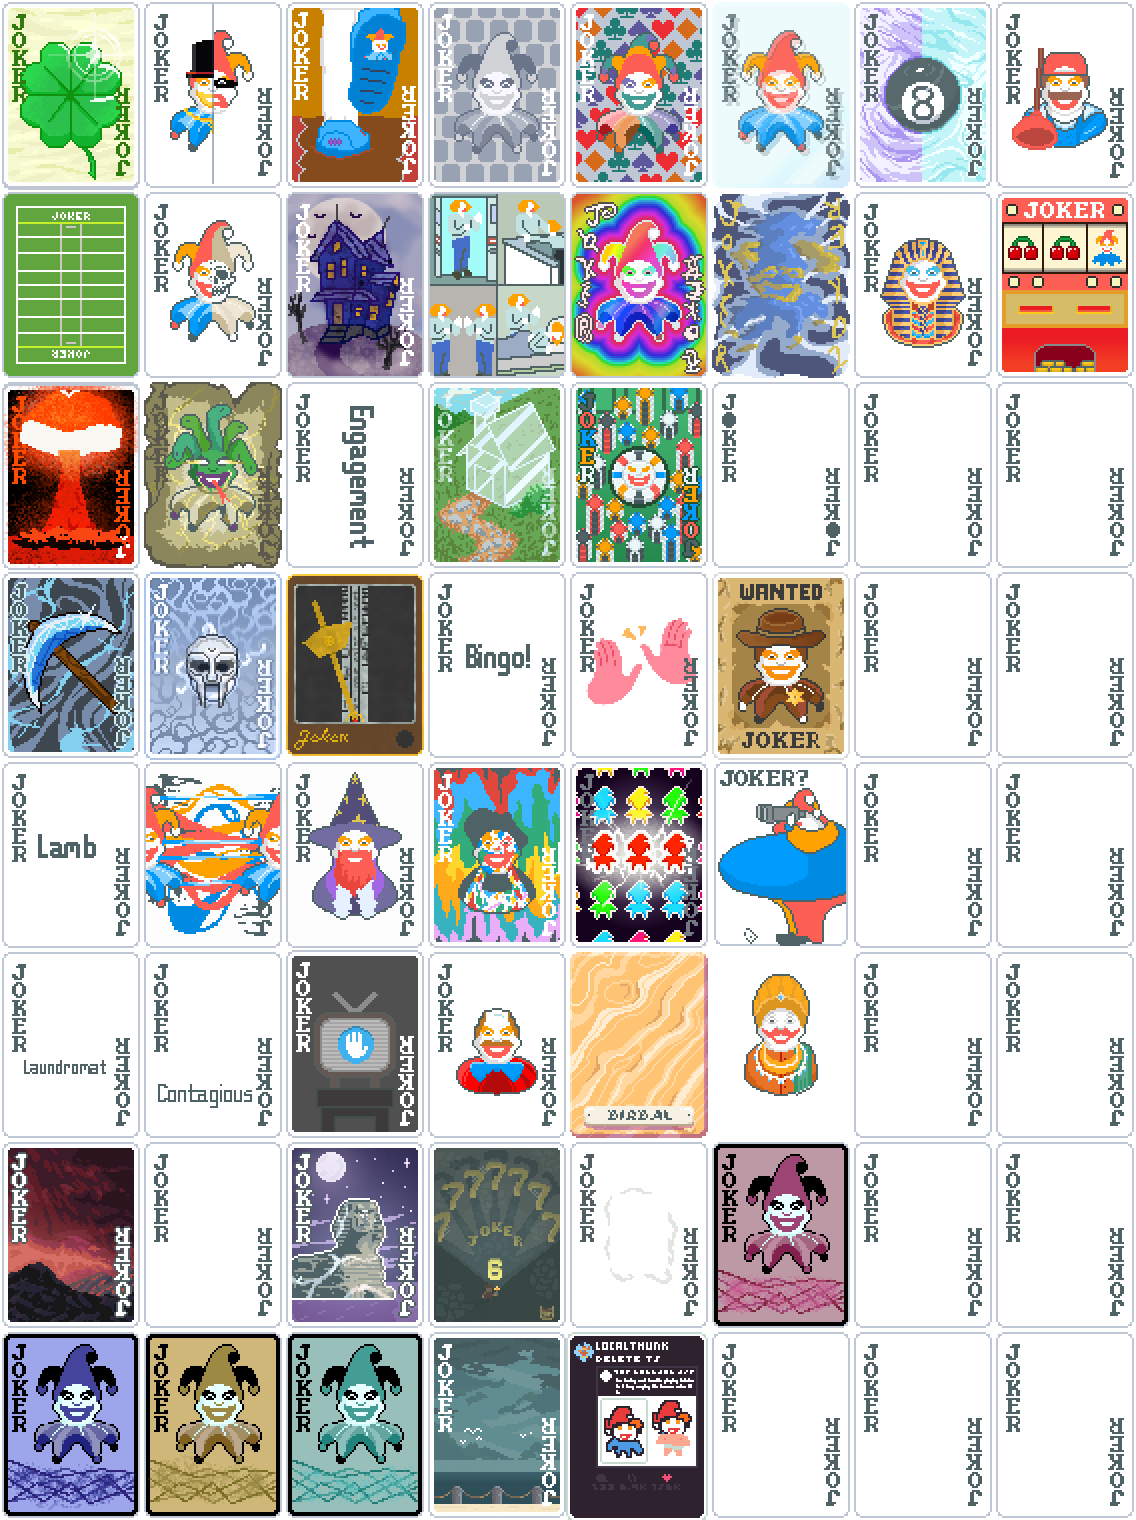
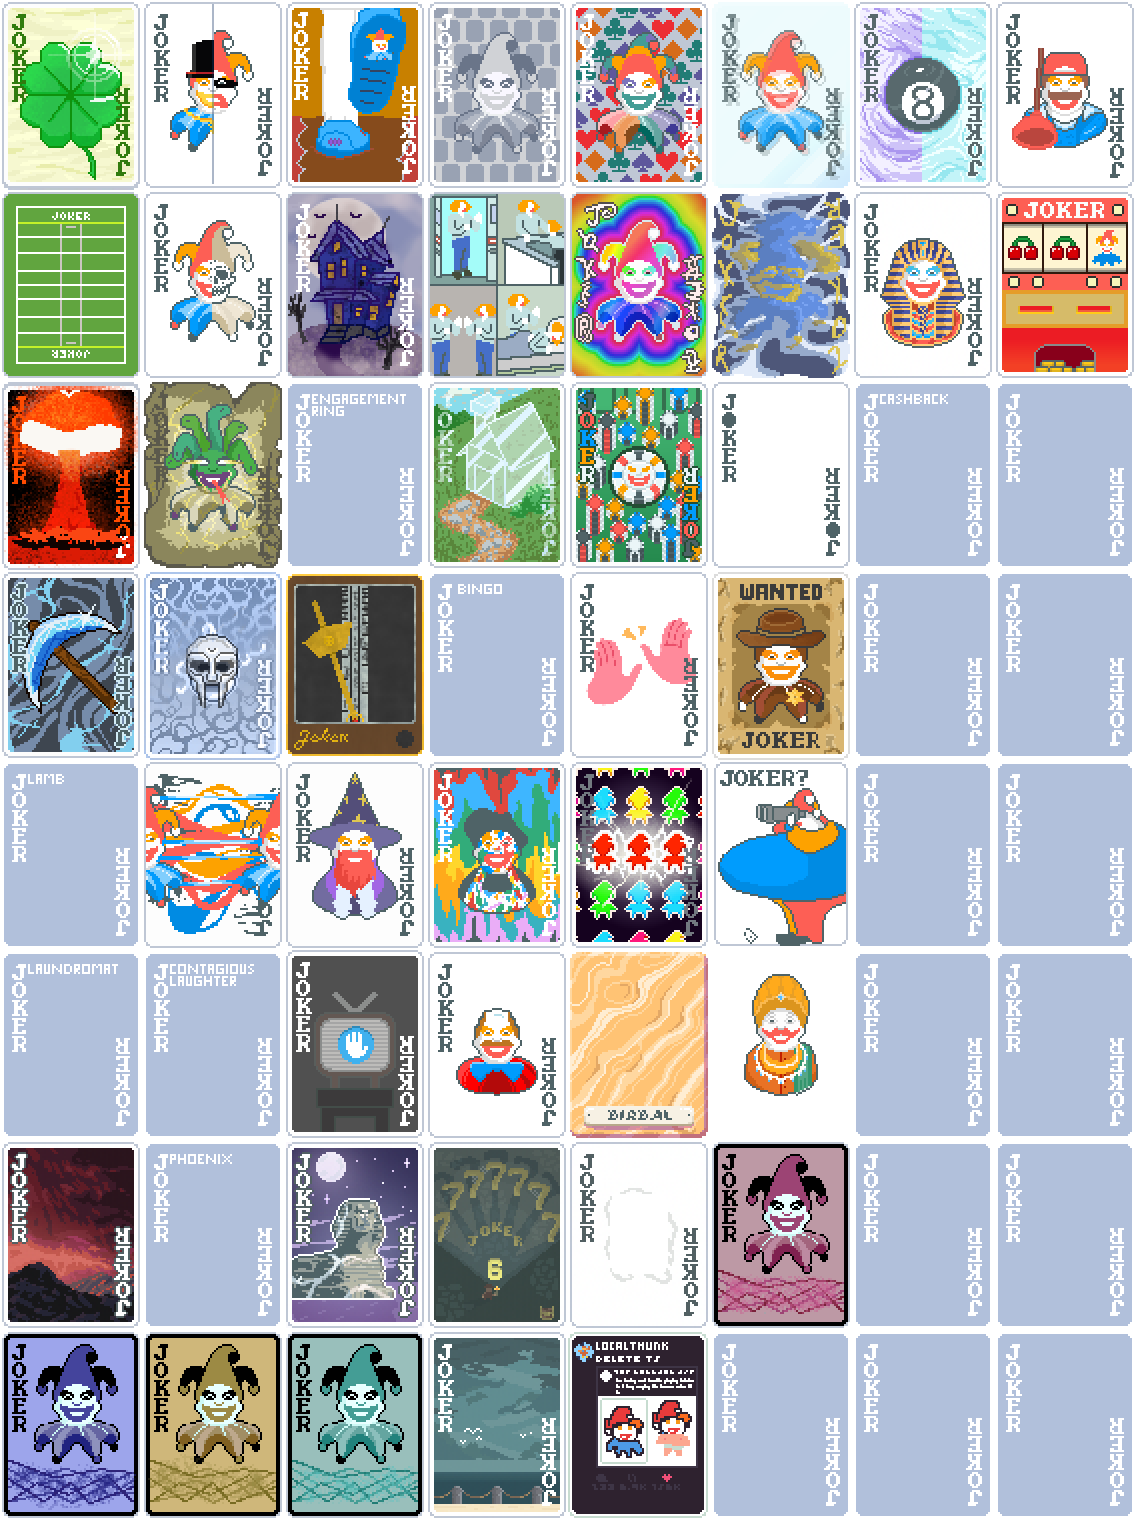
Many, Many Fixes
- Added Voucher Atlas
- Removed Card Counting Voucher Temporarily due to Bugs
- Update Joker Textures
- Update Artless Joker Textures
- Add vouchers.png
- Some Util Python Scripts
- Update Cashback Sprite Pos
- Fix Wrong credit on Plumber
- Add Textures to Trolley Problem

Changed region(s): [[0.493, 0.2474, 1.0, 1.0], [0.0, 0.4947, 0.2465, 0.8967], [0.2465, 0.2474, 0.5238, 0.5257]]

diff --git a/other/generate_desc copy.py b/other/generate_desc copy.py
@@ -4,7 +4,8 @@ import re
 files = os.listdir('src/jokers')
 nameregex = r'name = \'(.+?)\''
 creditregex = r'credit_badge\(\'(.+?)\''
-rarityregex = r'rarity = (\d)'
+
+users = set()
 
 for file in files:
     file = 'src/jokers/' + file
@@ -12,8 +13,9 @@ for file in files:
 
     name = re.findall(nameregex, filetext)[0]
     credit = re.findall(creditregex, filetext)[0]
-    rarity = re.search(rarityregex, filetext)
-    rarity = rarity.group(1).strip()
     
-    if rarity == '4':
-        print(f'- {name} by [{credit}](https://reddit.com/u/{credit})')
+
+    users.add(f'    - [u/{credit}](https://reddit.com/u/{credit})')
+
+for user in users:
+    print(user)

diff --git a/other/generate_desc copy 2.py b/other/generate_desc copy 2.py
@@ -1,0 +1,15 @@
+import os
+import re
+
+files = os.listdir('src/jokers')
+nameregex = r'name = \'(.+?)\''
+
+planning = open('planning.md').read().lower()
+
+for file in files:
+    file = 'src/jokers/' + file
+    filetext = open(file).read()
+
+    name = re.findall(nameregex, filetext)[0].lower()
+    if not name in planning:
+        print(name)

diff --git a/README.md b/README.md
@@ -9,45 +9,86 @@ Feel Free to open an Issue when you find a Problem!
 
 ## Jokers
 ### Common
-- Feelin' Lucky by [u/TSAMarioYTReddit](https://reddit.com/u/TSAMarioYTReddit): 1 in 3 Chance to retrigger Lucky Club Cards thrice
-- Slothful Joker by [u/NeoShard1](https://reddit.com/u/NeoShard1): Scored Stone Cards give +5 Mult
-- Medusa by [u/PerfectAstronaut5998](https://reddit.com/u/PerfectAstronaut5998): All scored Face Cards turn into stone cards
-- [MISSING TEXTURE] Engagement Ring by [u/LittlePetiteGirl](https://reddit.com/u/LittlePetiteGirl): Retriggers all scored Diamonds
+- Abstinent Joker by [submiss1vefemb0y](https://reddit.com/u/submiss1vefemb0y)
+- Album Cover by [Omicra98](https://reddit.com/u/Omicra98)
+- CashBack by [WarmTranslator6633](https://reddit.com/u/WarmTranslator6633)
+- Charitable Joker by [submiss1vefemb0y](https://reddit.com/u/submiss1vefemb0y)
+- Chaste Joker by [submiss1vefemb0y](https://reddit.com/u/submiss1vefemb0y)
+- Engagement Ring by [LittlePetiteGirl](https://reddit.com/u/LittlePetiteGirl)
+- Feelin' by [TSAMarioYTReddit](https://reddit.com/u/TSAMarioYTReddit)
+- Hollow Point by [Omicra98](https://reddit.com/u/Omicra98)
+- Kind Joker by [submiss1vefemb0y](https://reddit.com/u/submiss1vefemb0y)
+- Marvin by [BrilliantClerk](https://reddit.com/u/BrilliantClerk)
+- Medusa by [PerfectAstronaut5998](https://reddit.com/u/PerfectAstronaut5998)
+- Phoenix by [WarmTranslator6633](https://reddit.com/u/WarmTranslator6633)
+- Plumber by [Kid4U_Reddit](https://reddit.com/u/Kid4U_Reddit)
+- Slothful Joker by [NeoShard1](https://reddit.com/u/NeoShard1)
 ### Uncommon
-- Chocolate Treadmill by [u/jah2277](https://reddit.com/u/jah2277): Joker gains +1 Hand and loses X0.5 Chips if played hand contains a Straight. Elsewise gain X2 Chips
-- Touchdown by [u/WarmTranslator6633](https://reddit.com/u/WarmTranslator6633): Gains +7 mult once playing cards scores exeed 100
-- Jimbo's Loss by [u/aTOMic_Games](https://reddit.com/u/aTOMic_Games): Gains X0.2 mult when 3 or more face cards are discarded
-- [MISSING TEXTURE] Trippy Joker by [u/WarmTranslator6633](https://reddit.com/u/WarmTranslator6633): Gains X0.2 mult if played hand is High Card, else lose X0.2 mult 
-- Sinister Joker by [u/knockoutn336](https://reddit.com/u/knockoutn336): Gives X0.5 Mult for every Joker to the right
-- Glass House by [u/WarmTranslator6633](https://reddit.com/u/WarmTranslator6633): Enhances last played card into a Glass Card if played hand contains a Full House
-- All In by [u/Kyuuseishu_](https://reddit.com/u/Kyuuseishu_): Gives X5 Mult, lose all money when Blind is selected.
-- Diamond Pickaxe by [u/TSAMarioYTReddit](https://reddit.com/u/TSAMarioYTReddit): 1 in 16 chance to give $15 when discarding any enhanced card.
-- Bingo! by [u/WarmTranslator6633](https://reddit.com/u/WarmTranslator6633): Earn $13 when you play a card of every rank
-- Wild West by [u/GreedyHase](https://reddit.com/u/GreedyHase): Gives X3 Mult if played hand contains 3 or more Wild Cards
+- All In by [Kyuuseishu_](https://reddit.com/u/Kyuuseishu_)
+- Artist by [TSAMarioYTReddit](https://reddit.com/u/TSAMarioYTReddit)
+- Bingo! by [WarmTranslator6633](https://reddit.com/u/WarmTranslator6633)
+- Chocolate Treadmill by [jah2277](https://reddit.com/u/jah2277)
+- Contagious Laughter by [Unlikely_Movie_9073](https://reddit.com/u/Unlikely_Movie_9073)
+- Crimson Dawn by [Omicra98](https://reddit.com/u/Omicra98)
+- Diamond Pickaxe by [TSAMarioYTReddit](https://reddit.com/u/TSAMarioYTReddit)
+- Double Glazing by [NeoShard1](https://reddit.com/u/NeoShard1)
+- Glass House by [WarmTranslator6633](https://reddit.com/u/WarmTranslator6633)
+- Jimbo\ by [aTOMic_Games](https://reddit.com/u/aTOMic_Games)
+- Laundromat by [PokeAreddit](https://reddit.com/u/PokeAreddit)
+- Match 3 by [TSAMarioYTReddit](https://reddit.com/u/TSAMarioYTReddit)
+- Metronome by [Jkjsupremo](https://reddit.com/u/Jkjsupremo)
+- Pier by [Omicra98](https://reddit.com/u/Omicra98)
+- Rainbow Joker by [NeoShard1](https://reddit.com/u/NeoShard1)
+- Sinister Joker by [knockoutn336](https://reddit.com/u/knockoutn336)
+- Sphinx of Black Quartz by [Omicra98](https://reddit.com/u/Omicra98)
+- Superstition by [Omicra98](https://reddit.com/u/Omicra98)
+- Touchdown by [WarmTranslator6633](https://reddit.com/u/WarmTranslator6633)
+- Where is the Joker? by [babisme](https://reddit.com/u/babisme)
+- Wild West by [GreedyHase](https://reddit.com/u/GreedyHase)
 ### Rare
-- Kleptomaniac by [u/WarmTranslator6633](https://reddit.com/u/WarmTranslator6633): Refund all Items bought in the Shop. 1 in 10 chance to deduct all money owed
-- Rainbow Joker by [u/NeoShard1](https://reddit.com/u/NeoShard1): Gives X1 Mult pre unique suit in played Hand
-- [MISSING TEXTURE] Haunted House by [u/Ulik](https://reddit.com/u/Ulik): 1 in 4 chance to create a Spectral Card when the played hand contains a Full House
-- Enigma by [u/TSAMarioYTReddit](https://reddit.com/u/TSAMarioYTReddit): 1 in 5 chance to create a Negative Spectral Card when using a Tarrot or Planet card
-- M.A.D. by [u/TSAMarioYTReddit](https://reddit.com/u/TSAMarioYTReddit): Sell this joker to increase ante by +1, beat this blind and set money to 0
-- Blank Joker by [u/WarmTranslator6633](https://reddit.com/u/WarmTranslator6633): Sell this card after beating 2 Boss Blinds to create an extra Joker Slot
-- Hi Five by [u/Thomassaurus](https://reddit.com/u/Thomassaurus): Gives $2 for every 5 in your deck when sold
-- Lamb by [u/Beasstvg](https://reddit.com/u/Beasstvg): After playing every base poker hand, sell this card to create a Legendary Joker
+- Ad Break by [Kid4U_Reddit](https://reddit.com/u/Kid4U_Reddit)
+- Blank Joker by [WarmTranslator6633](https://reddit.com/u/WarmTranslator6633)
+- Enigma by [TSAMarioYTReddit](https://reddit.com/u/TSAMarioYTReddit)
+- Entangled Joker by [TSAMarioYTReddit](https://reddit.com/u/TSAMarioYTReddit)
+- Haunted House by [Ulik](https://reddit.com/u/Ulik)
+- Hi Five by [Thomassaurus](https://reddit.com/u/Thomassaurus)
+- Kleptomaniac by [WarmTranslator6633](https://reddit.com/u/WarmTranslator6633)
+- Lamb by [Beasstvg](https://reddit.com/u/Beasstvg)
+- Legally Distinct by [Princemerkimer](https://reddit.com/u/Princemerkimer)
+- M.A.D. by [TSAMarioYTReddit](https://reddit.com/u/TSAMarioYTReddit)
+- Pharaoh by [Omicra98](https://reddit.com/u/Omicra98)
+- Trippy Joker by [WarmTranslator6633](https://reddit.com/u/WarmTranslator6633)
+- Wizard by [TSAMarioYTReddit](https://reddit.com/u/TSAMarioYTReddit)
+
+### Legendary
+- Birbal by [TSAMarioYTReddit](https://reddit.com/u/TSAMarioYTReddit)
 
 ## Credits
 - Mod Author: [u/ItsGraphax](https://reddit.com/u/ItsGraphax) - [ItsGraphax](github.com/ItsGraphax)
 - Co Author: [u/Natural_Builder_3170](https://reddit.com/u/Natural_Builder_3170) - [mindoftony](https://github.com/Git-i)
+- Artist: [u/TSAMarioYTReddit](https://reddit.com/u/TSAMarioYTReddit)
 - Special Thanks
-    - [u/TSAMarioYTReddit](https://reddit.com/u/TSAMarioYTReddit) - Thank You for the Excessive Amount of Jokers you gave me and the awesome art you made.
     - [u/VALERock](https://reddit.com/u/VALERock) - Thank you for the support <3
 - Jokers:
-    - [u/TSAMarioYTReddit](https://reddit.com/u/TSAMarioYTReddit)
-    - [u/WarmTranslator6633](https://reddit.com/u/WarmTranslator6633)
-    - [u/NeoShard1](https://reddit.com/u/NeoShard1)
-    - [u/PerfectAstronaut5998](https://reddit.com/u/PerfectAstronaut5998)
-    - [u/jah2277](https://reddit.com/u/jah2277)
-    - [u/LittlePetiteGirl](https://reddit.com/u/LittlePetiteGirl)
     - [u/aTOMic_Games](https://reddit.com/u/aTOMic_Games)
-    - [u/knockoutn336](https://reddit.com/u/knockoutn336)
-    - [u/Kyuuseishu_](https://reddit.com/u/Kyuuseishu_)
     - [u/Ulik](https://reddit.com/u/Ulik)
+    - [u/GreedyHase](https://reddit.com/u/GreedyHase)
+    - [u/Jkjsupremo](https://reddit.com/u/Jkjsupremo)
+    - [u/PerfectAstronaut5998](https://reddit.com/u/PerfectAstronaut5998)
+    - [u/NeoShard1](https://reddit.com/u/NeoShard1)
+    - [u/Kid4U_Reddit](https://reddit.com/u/Kid4U_Reddit)
+    - [u/BrilliantClerk](https://reddit.com/u/BrilliantClerk)
+    - [u/LittlePetiteGirl](https://reddit.com/u/LittlePetiteGirl)
+    - [u/WarmTranslator6633](https://reddit.com/u/WarmTranslator6633)
+    - [u/Princemerkimer](https://reddit.com/u/Princemerkimer)
+    - [u/Beasstvg](https://reddit.com/u/Beasstvg)
+    - [u/babisme](https://reddit.com/u/babisme)
+    - [u/Omicra98](https://reddit.com/u/Omicra98)
+    - [u/Kyuuseishu_](https://reddit.com/u/Kyuuseishu_)
+    - [u/jah2277](https://reddit.com/u/jah2277)
+    - [u/Unlikely_Movie_9073](https://reddit.com/u/Unlikely_Movie_9073)
+    - [u/TSAMarioYTReddit](https://reddit.com/u/TSAMarioYTReddit)
+    - [u/submiss1vefemb0y](https://reddit.com/u/submiss1vefemb0y)
+    - [u/knockoutn336](https://reddit.com/u/knockoutn336)
+    - [u/Thomassaurus](https://reddit.com/u/Thomassaurus)
+    - [u/PokeAreddit](https://reddit.com/u/PokeAreddit)

diff --git a/planning.md b/planning.md
@@ -40,6 +40,12 @@
 - [x] Cash Back [Link](https://www.reddit.com/r/balatro/comments/1l6iud1/joker_concepts_for_shops/)
 - [x] Pier [Link](https://www.reddit.com/r/balatro/comments/1hnbwvn/oc_here_are_some_custom_jokers_and_more_concepts/)
 - [x] Legally Distinct [Link](https://www.reddit.com/r/balatro/comments/1kov6fo/had_these_joker_ideas_rattling_around_in_my_head/)
+- [x] Ad Break
+- [x] Album Cover [Link](https://www.reddit.com/r/balatro/comments/1hnbwvn/oc_here_are_some_custom_jokers_and_more_concepts/)
+- [x] All In
+- [x] CashBack
+- [x] Metronome
+- [x] Wild West
 FINISHPOSTREP
 
 # Waiting List
@@ -48,8 +54,7 @@ FINISHPOSTREP
 - [ ] Goldfinger [Link](https://www.reddit.com/r/balatro/comments/1kviylt/i_made_a_joker_that_completes_the_banana_trilogy/)
 - [ ] Double Glazing [Link](https://www.reddit.com/r/balatro/comments/1kmcvm1/decided_to_make_some_custom_joker_ideas_no_idea/)
 - [ ] Biker [Link](https://www.reddit.com/r/balatro/comments/1kmxev1/wanna_join_our_biker_gang_custom_joker_post/) 
-- [ ] Joke Free Zone [Link](https://www.reddit.com/r/balatro/comments/1kqcdt3/i_love_drawing_jokers_for_fun_so_i_tried_to_turn/) [UNAPPROVED]
-- [ ] Brainfart [Link](https://www.reddit.com/r/balatro/comments/1kman09/a_more_consistent_get_for_a_less_consistent_result/) [UNAPPROVED]
+- [ ] Joke Free Zone [Link](https://www.reddit.com/r/balatro/comments/1kqcdt3/i_love_drawing_jokers_for_fun_so_i_tried_to_turn/)
 - [ ] Thunderstruck [Link](https://www.reddit.com/r/balatro/comments/1jycf28/balanced_jonklers_volume_2/?utm_source=share&utm_medium=web3x&utm_name=web3xcss&utm_term=1&utm_content=share_button) (Note: Hard)
 - [ ] Thin Ice [Link](https://www.reddit.com/r/balatro/comments/1jycf28/balanced_jonklers_volume_2/?utm_source=share&utm_medium=web3x&utm_name=web3xcss&utm_term=1&utm_content=share_button) (Note: Debuff maybe?)
 - [ ] Class Notes [Link](https://www.reddit.com/r/balatro/comments/1jfljha/custom_jokers_after_a_lot_of_thoughts_100/?utm_source=share&utm_medium=web3x&utm_name=web3xcss&utm_term=1&utm_content=share_button)
@@ -62,7 +67,6 @@ FINISHPOSTREP
 - [ ] Rover [Link](https://www.reddit.com/r/balatro/comments/1hnbwvn/oc_here_are_some_custom_jokers_and_more_concepts/)
 - [ ] Pharaoh [Link](https://www.reddit.com/r/balatro/comments/1hnbwvn/oc_here_are_some_custom_jokers_and_more_concepts/)
 - [ ] Tough Crowd [Link](https://www.reddit.com/r/balatro/comments/1hnbwvn/oc_here_are_some_custom_jokers_and_more_concepts/)
-- [ ] Album Cover [Link](https://www.reddit.com/r/balatro/comments/1hnbwvn/oc_here_are_some_custom_jokers_and_more_concepts/)
 - [ ] Sheet Music [Link](https://www.reddit.com/r/balatro/comments/1hnbwvn/oc_here_are_some_custom_jokers_and_more_concepts/)
 - [ ] [SPECTRAL] Skyfall [Link](https://www.reddit.com/r/balatro/comments/1hnbwvn/oc_here_are_some_custom_jokers_and_more_concepts/)
 - [ ] [SPECTRAL] Frostbite [Link](https://www.reddit.com/r/balatro/comments/1hnbwvn/oc_here_are_some_custom_jokers_and_more_concepts/)
@@ -78,7 +82,7 @@ FINISHPOSTREP
 - [ ] Slot_Machine [Link](https://www.reddit.com/r/balatro/comments/1ktd4dg/had_an_idea_for_a_slot_machine_joker_lemme_know/)
 - [ ] Plumber [Link](https://www.reddit.com/r/balatro/comments/1ku3zt4/thought_of_a_plumber_joker_idea_that_would_give_a/)
 - [ ] Social_Media [Link](https://www.reddit.com/r/balatro/comments/1l5zqj4/joker_idea/)
-- [ ] 8 Ball Mod [Link](https://www.reddit.com/r/balatro/comments/1l9vmzo/here is a buff for 8 ball as well as some art to/)
+- [ ] 8 Ball Mod [Link](https://www.reddit.com/r/balatro/comments/1l9vmzo/here_is_a_buff_for_8_ball_as_well_as_some_art_to/)
 - [ ] Lucky Saver [Link](https://discord.com/channels/1380892511081463889/1383166608674918591/1383166608674918591)
 NEWPOSTREP
 
